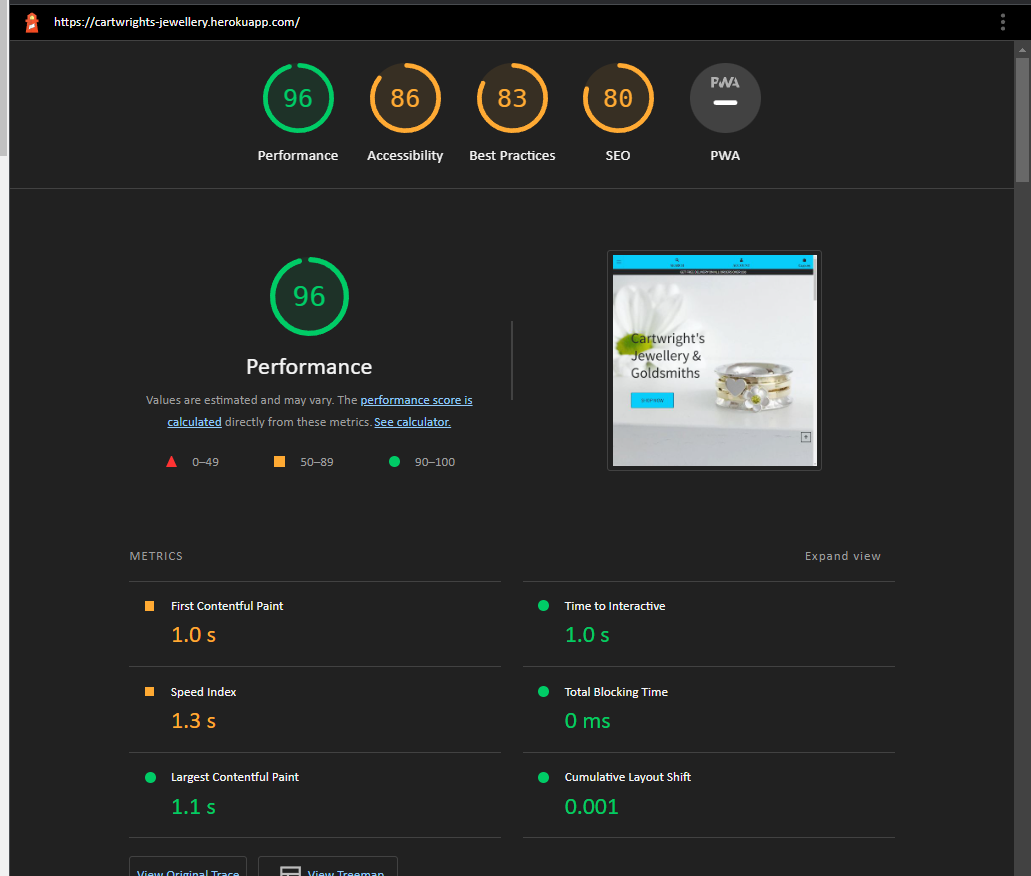
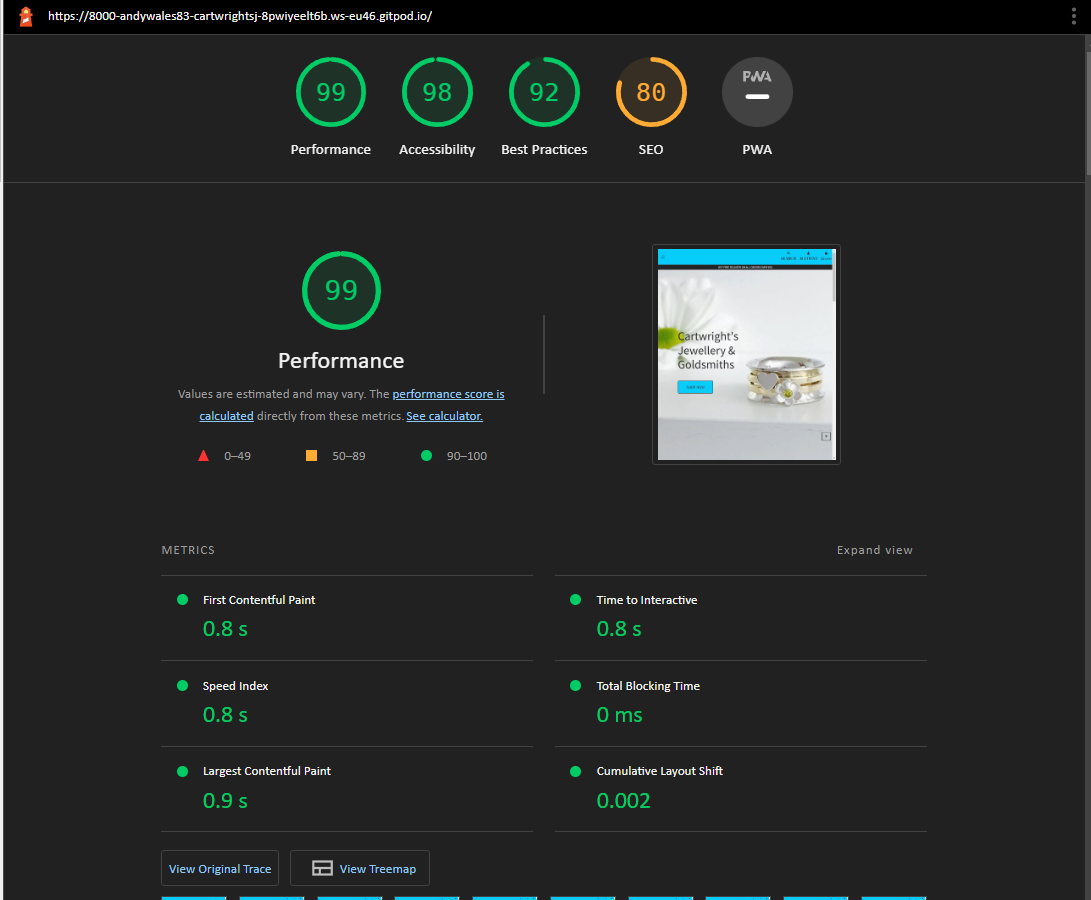
Code cleanup following testing of Javascript, HTML and CSS validation. Finished TESTING.MD and added Data Schema to main Readme.

diff --git a/static/css/base.css b/static/css/base.css
@@ -360,7 +360,7 @@ button .subscribe-btn {
     .navbar {
         padding: 0.1rem 0.1rem;
     }
-    
+   
     .header-container {
         padding-top: 116px;
     }
@@ -415,5 +415,15 @@ button .subscribe-btn {
 
     .increment-qty, .decrement-qty {
         padding: .25rem .5rem !important;
+    }
+}
+
+@media only screen and (max-width: 340px) {
+    div h1.main-page-logo {
+        font-size: 0.5rem;
+    }
+
+    div p.nav-text {
+        font-size: 0.8rem !important;
     }
 }

diff --git a/basket/templates/basket/basket.html b/basket/templates/basket/basket.html
@@ -127,7 +127,7 @@
     $('.update-link').click(function (e) {
         var form = $(this).prev('.update-form');
         form.submit();
-    })
+    });
 
     // Remove item and reload on click
     $('.remove-item').click(function (e) {
@@ -144,6 +144,6 @@
             .done(function () {
                 location.reload();
             });
-    })
+    });
 </script>
 {% endblock %}

diff --git a/home/templates/home/index.html b/home/templates/home/index.html
@@ -12,7 +12,7 @@
 {% block content %}
 <div class="container h-100">
     <div class="row h-100">
-        <div class="col-7 col-md-6 my-auto">
+        <div class="col-7 col-md-6 my-auto hero-text">
             <h1 class="display-4 main-page-logo">
                 Cartwright's Jewellery & Goldsmiths
             </h1>

diff --git a/checkout/static/checkout/js/stripe_elements.js b/checkout/static/checkout/js/stripe_elements.js
@@ -120,5 +120,5 @@ form.addEventListener('submit', function (ev) {
     }).fail(function () {
         // just reload the page, the error will be in django messages
         location.reload();
-    })
+    });
 });

diff --git a/products/templates/products/products.html b/products/templates/products/products.html
@@ -164,6 +164,6 @@
 
             window.location.replace(currentUrl);
         }
-    })
+    });
 </script>
 {% endblock %}

diff --git a/readme/testing/TESTING.md b/readme/testing/TESTING.md
@@ -134,6 +134,29 @@ Testing user stories from the UX section with the corresponding features and con
 - To validate the CSS code of the project pasting code in by direct input method.
 - All issues were resolved
 
+<details>
+<summary>CSS Validation</summary>
+
+![CSS Validation](/documentation/images/test-images/css_validation.png)
+</details>
+
+### [JavaScript: JSHint](https://jshint.com/)
+- JSHint was used to test javascript code in this project. 
+- All issues were resolved except the below:
+   - Final version - addressing errors and warnings: 
+      - Warning for ''let' is available in ES6 (use 'esversion: 6'). Can be safely ignored. If add /*jshint esversion: 6 */ at top of code so that JSHint does not raise unnecessary warnings for ECMAScript 6 features.
+      - JSHint flags Jquery $ symbol as an undefined variable - safely ignored.
+---
+
+## **Manual testing**
+<details>
+<summary>Manual testing for features</summary>
+
+![Manual testing for features](/documentation/images/test-images/manual-testing.png)
+</details>
+<br>
+All features of the site have been tested. Test purchases have been made to check the order confirmation emails and these are delivered correctly, with the correct information. 
+
 ---
 
 ### Lighthouse (Google Dev Tools)
@@ -143,7 +166,11 @@ Testing user stories from the UX section with the corresponding features and con
 
 - The Lighthouse Report for the site's main home page on Desktop was as follows:
    - [Mobile Lighthouse Report](/documentation/images/test-images/lighthouse-mobile-home.png)
-
+<br>
+- Lighthouse testing was conducted, to test the accessibility and performance of the website. 
+- After testing the site on Lighthouse, there were minor changes that needed to be made, for example, some buttons did not have aria labels, which was added. Another aspect that was fixed was link text styling, the colour needed to be changed to make it more accessible. Lastly, some heading tags were not in order, which was changed as well. 
+- After the above changes were made, the overall performance and accessibility have increased. 
+- Additional future changes can be made in optimising images in next-generation formats.
 
 ## **Deployment**
 - Ensured deployed page on Heroku loads up correctly.

diff --git a/README.md b/README.md
@@ -141,6 +141,23 @@ Low fidelity wireframes were created with Balsamiq, and bring to life the basic 
 - [User Reviews](/documentation/wireframes/user-reviews.png)
 
 ---
+
+## **Data Structure**
+A database structure was designed to be specifically suited for Cartwright's Jewellery. It was important to make sure the data structure was logical. Each product is linked to a category and these are identified by id (pk number).
+
+Each order has a unique order number which is generated when the order is processed and orders have the users and product details.
+
+Users have the option to purchase products as guest users or as registered users. Guest users can complete the order process but their details will not be saved, they won’t be able to see a Profile with their details, order history and shipping address etc. A Registered user will not only have access to their Profile but will also have their details pre-populated the next time they shop. 
+
+SQLite, which is Django's built-in database is used for development mode and Heroku Postgres is used for production mode. AWS (Amazon Web Services) is used to hold all static files and folders for the website for production mode.
+
+<details>
+<summary>Data Structure</summary>
+
+![Data Structure](/documentation/images/general-images/data-schema.png)
+</details>
+
+---
 ## **Features**
 
 **Implemented**
